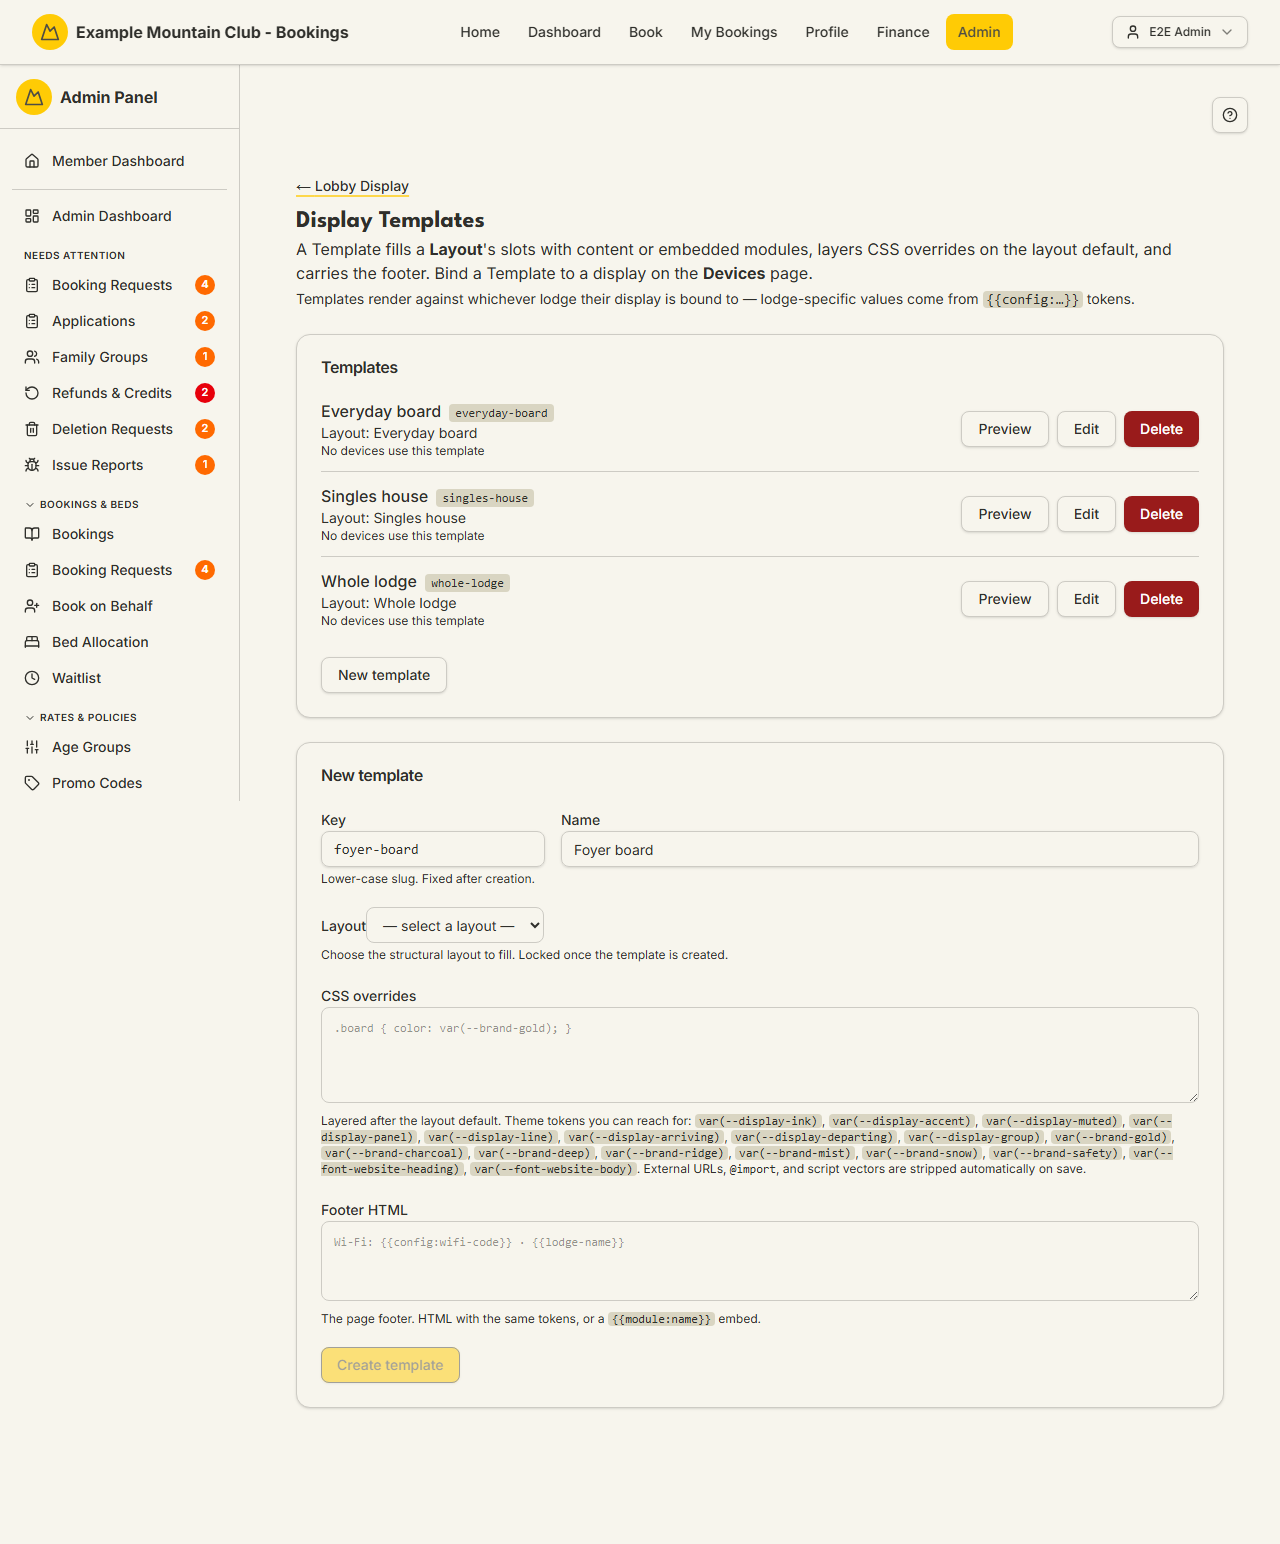
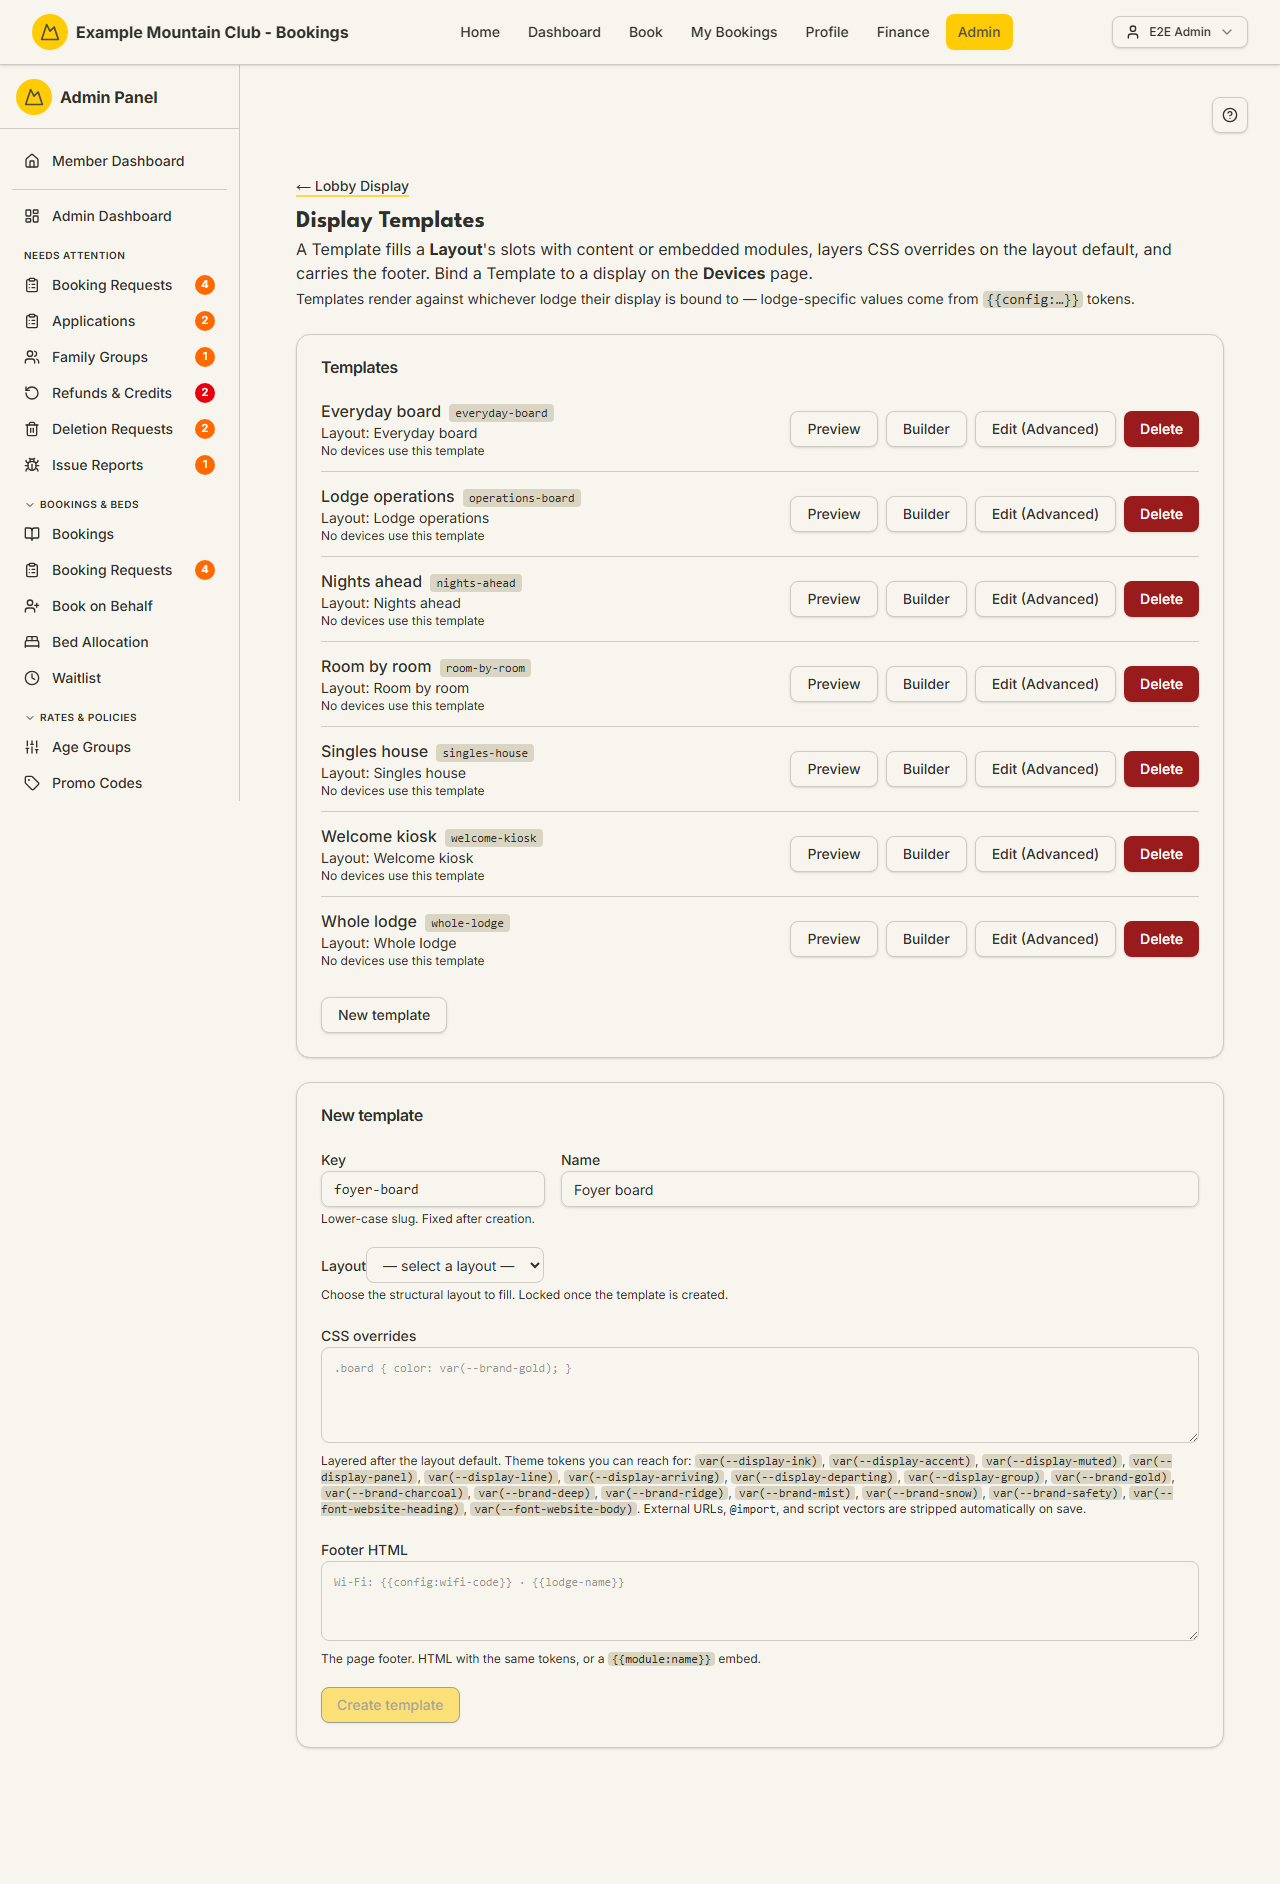
docs(2050): re-capture lobby-display hub + template gallery (#2050)
Re-capture the two batch-3 display images against a capture stack rebuilt
from this branch, which now carries #2047 (template pack) and #2048 (visual
builder):

- admin-display now shows the FIVE-card hub (Devices, Visual builder,
  Layouts (Advanced), Templates, Reference).
- admin-display-templates now shows all SEVEN built-ins (Everyday board,
  Whole lodge, Singles house, Room by room, Nights ahead, Lodge operations,
  Welcome kiosk).

Enable the lobbyDisplay module on the ephemeral capture stack (a throwaway
Playwright login + admin modules API flip), rewrite the harness
"RE-CAPTURE AT BATCH-3 FINALISATION" note to record the satisfied end-state,
and update the Templates gallery alt text/prose to name the seven built-ins
and the Preview/Builder/Edit (Advanced)/Delete actions.

diff --git a/e2e/tools/capture-screenshots.ts b/e2e/tools/capture-screenshots.ts
@@ -189,17 +189,17 @@ const CAPTURES: Capture[] = [
   // → Modules on the ephemeral capture stack (only) before capturing these, as
   // the display guide documents.
   //
-  // RE-CAPTURE AT BATCH-3 FINALISATION (the committed images predate #2047/#2048):
-  //   - `admin-display-templates` currently shows only the ORIGINAL THREE built-ins
-  //     (Everyday board, Whole lodge, Singles house) — the #2047 template pack
-  //     (Room by room, Nights ahead, Lodge operations, Welcome kiosk) had not been
-  //     seeded on the stack these were shot against.
-  //   - `admin-display` (the hub) currently shows the FOUR-card hub — it predates
-  //     the #2048 **Visual builder** card, so it does not yet show the five-card hub
-  //     the display guide documents.
-  // Both must be re-captured once the capture stack is rebuilt from a `main` that
-  // contains #2047 (template pack) AND #2048 (visual builder). The visual builder
-  // page itself ships its own docs and is not part of this batch-3 manifest.
+  // The committed images were re-captured at batch-3 finalisation against a
+  // capture stack rebuilt from this branch (which carries #2047 + #2048):
+  //   - `admin-display` (the hub) shows the FIVE-card hub — Devices, **Visual
+  //     builder** (#2048), Layouts (Advanced), Templates, and Reference — matching
+  //     the five-card hub the display guide documents.
+  //   - `admin-display-templates` shows the FULL SEVEN built-ins from the #2047
+  //     template pack: Everyday board, Whole lodge, Singles house, Room by room,
+  //     Nights ahead, Lodge operations, and Welcome kiosk (each with a Builder
+  //     entry into the #2048 visual builder).
+  // The visual builder page itself ships its own docs and is not part of this
+  // batch-3 manifest.
   { name: "admin-display", route: "/admin/display", area: "admin" },
   { name: "admin-display-devices", route: "/admin/display/devices", area: "admin" },
   { name: "admin-display-layouts", route: "/admin/display/layouts", area: "admin" },

diff --git a/docs/guides/display.md b/docs/guides/display.md
@@ -89,12 +89,12 @@ glance. For the deeper design and operating detail, see the
 1. Open the **Templates** card. A **Template** fills a Layout's areas with content
    or embedded modules, layers CSS overrides on the layout default, and carries the
    footer. The gallery lists the **built-in templates** that ship ready to use;
-   each has **Preview**, **Edit**, and **Delete**. This raw **Key / Layout / CSS**
+   each has **Preview**, **Builder**, **Edit (Advanced)**, and **Delete**. This raw **Key / Layout / CSS**
    authoring flow is the **advanced** path — most operators should compose a board
    with the **Visual builder** (§3) instead, which produces the layout and template
    for them; reach for Templates directly only when you need hand control.
 
-   ![Display Templates page showing the built-in template gallery with Preview, Edit, and Delete actions, and the New template form](../images/admin/admin-display-templates.png)
+   ![Display Templates page showing the seven built-in templates — Everyday board, Whole lodge, Singles house, Room by room, Nights ahead, Lodge operations, and Welcome kiosk — each with Preview, Builder, Edit (Advanced), and Delete actions, above the New template form](../images/admin/admin-display-templates.png)
 
 2. To use a built-in as a starting point, open it and **duplicate it to
    customise** — editing a built-in in place warns you, because built-ins are